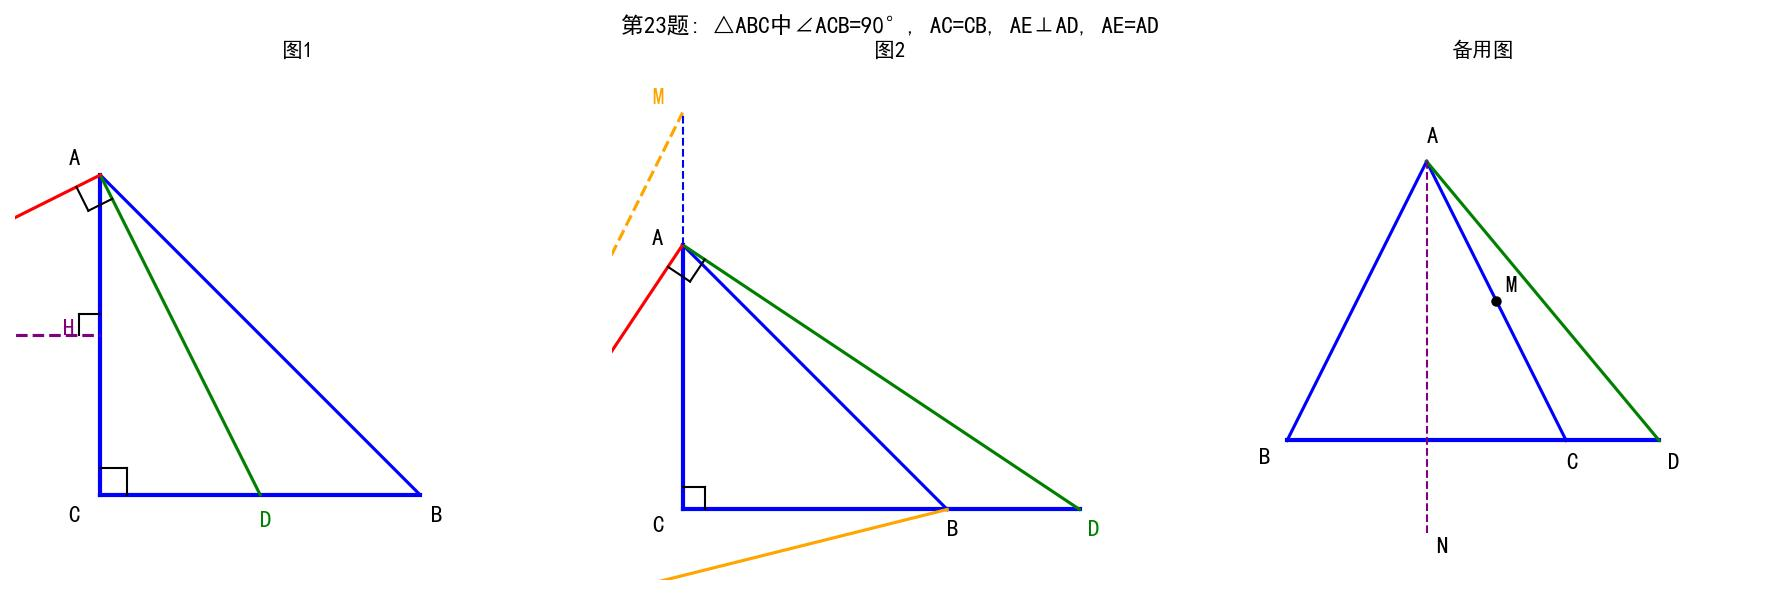
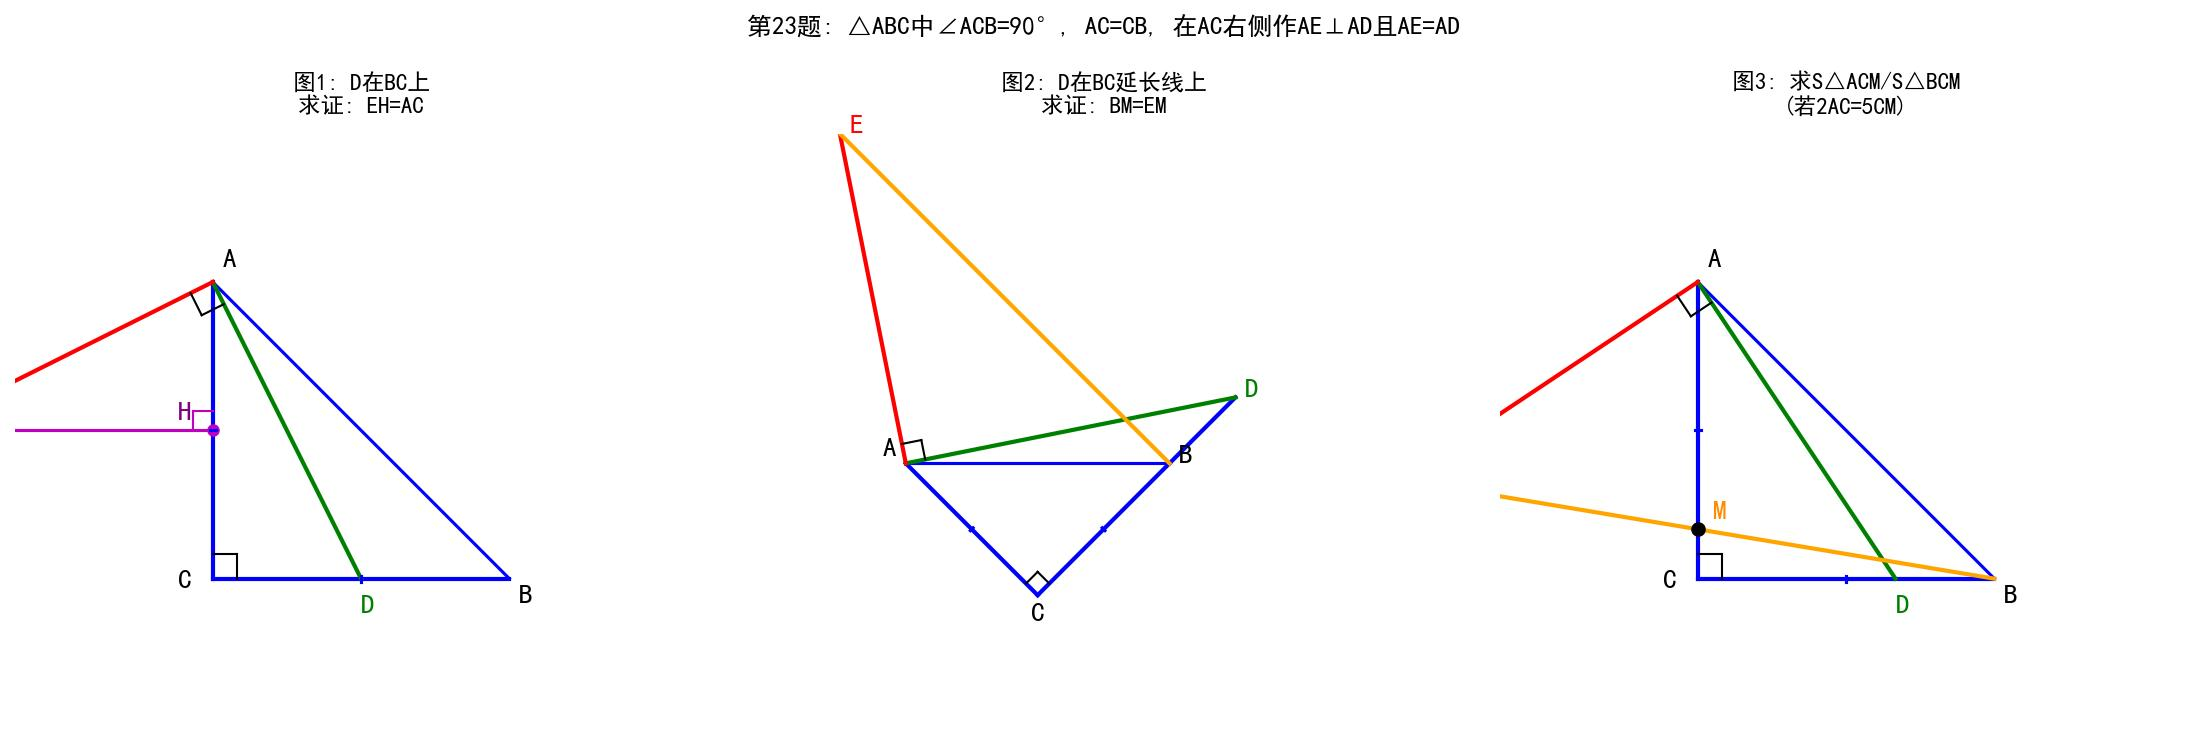
Fix Q23 geometry figure with correct E position and triangle orientation

diff --git a/考试卷子/第一周考核试卷/数学_第一周考核试卷 - 2.md b/考试卷子/第一周考核试卷/数学_第一周考核试卷 - 2.md
@@ -154,9 +154,12 @@ A. 50°　　B. 60°　　C. 70°　　D. 无法确定
 
 （Ⅲ）当点D在直线BC上时，连接BE交直线AC于M，若2AC = 5CM，则 S△ACM/S△BCM = ________。
 
-<img src="../../DailyTasks/geo_images/exam2_q23.jpg" width="600">
+<img src="../../DailyTasks/geo_images/exam2_q23.jpg" width="650">
 
-> **图示说明**：图1为D在BC上，图2为D在BC延长线上，备用图为一般情况
+> **图示说明**：
+> - **图1**：D在线段BC上，H是E到AC的垂足，求证EH=AC
+> - **图2**：D在BC延长线上，三角形倾斜放置，BE与CA延长线交于M
+> - **图3**：一般情况，用于计算面积比（若2AC=5CM）
 
 <br><br><br><br><br><br><br><br><br><br><br><br>
 
